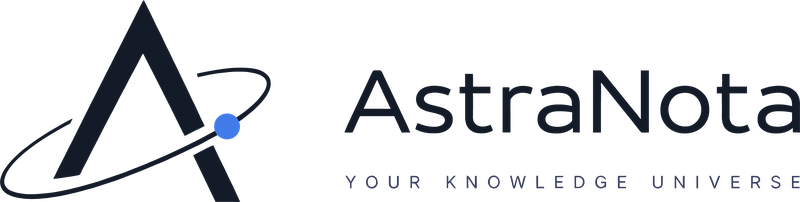
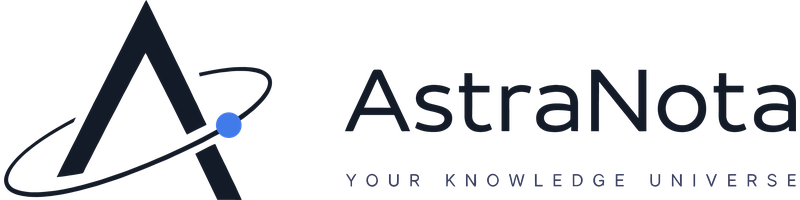
fix(brand): 横版素材改为精确 800×200，文件名即真实尺寸
根因：脚本横版分支用 resize_width(im, 800)，高度随源比例浮动（实测 202），
而产物文件名常量写死 -800x200.png，只靠注释「近似标签」兜着 —— 名不副实。

- 横版改为 fit_into(im, 800, 200)：等比放入 800×200 画布、不拉伸、留透明边
- 删除因此不再使用的 resize_width
- 修脚本自身报告 bug：旧尺寸列在覆盖写之后才读，永远显示新尺寸；
  改为写前 dims_of() 取值，并区分「新建/旧 WxH」
- 重生成四素材：横版 800×200（bbox (4,0,796,200)，占比 99.0%）；
  icon 256×256 字节未变（占比 74.6%）；tauri icon 源字节未变 → 桌面图标集无需重跑

diff --git a/scripts/make-brand-assets.py b/scripts/make-brand-assets.py
@@ -63,19 +63,18 @@ def fit_into(im: Image.Image, w: int, h: int, margin: float = 0.0) -> Image.Imag
     return out
 
 
-def resize_width(im: Image.Image, w: int) -> Image.Image:
-    """等比缩放到指定宽度（高度由比例决定）。"""
-    h = max(1, round(im.height * w / im.width))
-    return im.resize((w, h), Image.LANCZOS)
+def dims_of(path: Path) -> tuple[int, int] | None:
+    """读取既有产物的尺寸（必须在覆盖写之前调用）。"""
+    if not path.is_file():
+        return None
+    with Image.open(path) as im:
+        return (im.width, im.height)
 
 
-def report(name: str, im: Image.Image, prev: Path | None) -> None:
+def report(name: str, im: Image.Image, prev: tuple[int, int] | None) -> None:
     bb = im.getchannel("A").getbbox()
     fill = (bb[2] - bb[0]) * (bb[3] - bb[1]) / (im.width * im.height) * 100
-    old = ""
-    if prev and prev.exists():
-        p = Image.open(prev).convert("RGBA")
-        old = f"  (旧 {p.width}x{p.height})"
+    old = f"  (旧 {prev[0]}x{prev[1]})" if prev else "  (新建)"
     print(f"  ✓ {name:<44} {im.width}x{im.height}  内容占比 {fill:5.1f}%{old}")
 
 
@@ -102,15 +101,16 @@ def main() -> int:
             return sys.exit(f"缺少源文件：{sp}")
         im = load_cropped(sp)
         dst = ASSETS / dst_name
-        prev = dst if dst.exists() else None
+        prev = dims_of(dst)
         if kind == "icon":
             # 256×256 画布内等比居中（内容宽高比 1.34 ≠ 1，绝不能拉伸）
             out = fit_into(im, 256, 256)
             if dst_name.endswith("light-256.png"):
                 icon_src = im
         else:
-            # 横幅：等比缩放到宽 800（文件名里的 800x200 为近似标签，实际高度随比例）
-            out = resize_width(im, 800)
+            # 横幅：等比放入 800×200 画布（**不拉伸**，留透明边）——保证「文件名里的尺寸 = 真实尺寸」
+            # 不要改成 resize_width(800)：那样高度随源比例浮动（实测 202），文件名即谎报尺寸。
+            out = fit_into(im, 800, 200)
         out.save(dst)
         report(dst_name, out, prev)
 
@@ -119,8 +119,9 @@ def main() -> int:
         return sys.exit("未能取得 icon 源")
     sq = fit_into(icon_src, 1024, 1024, margin=0.08)
     sq_path = out_dir / "astra-icon-1024.png"
+    prev_sq = dims_of(sq_path)
     sq.save(sq_path)
-    report(f"(tauri icon 源) {sq_path.name}", sq, None)
+    report(f"(tauri icon 源) {sq_path.name}", sq, prev_sq)
     print(f"\n下一步（Windows 侧，从 desktop/ 运行）：")
     print(f'  node node_modules\\@tauri-apps\\cli\\tauri.js icon "{sq_path}"')
     return 0
